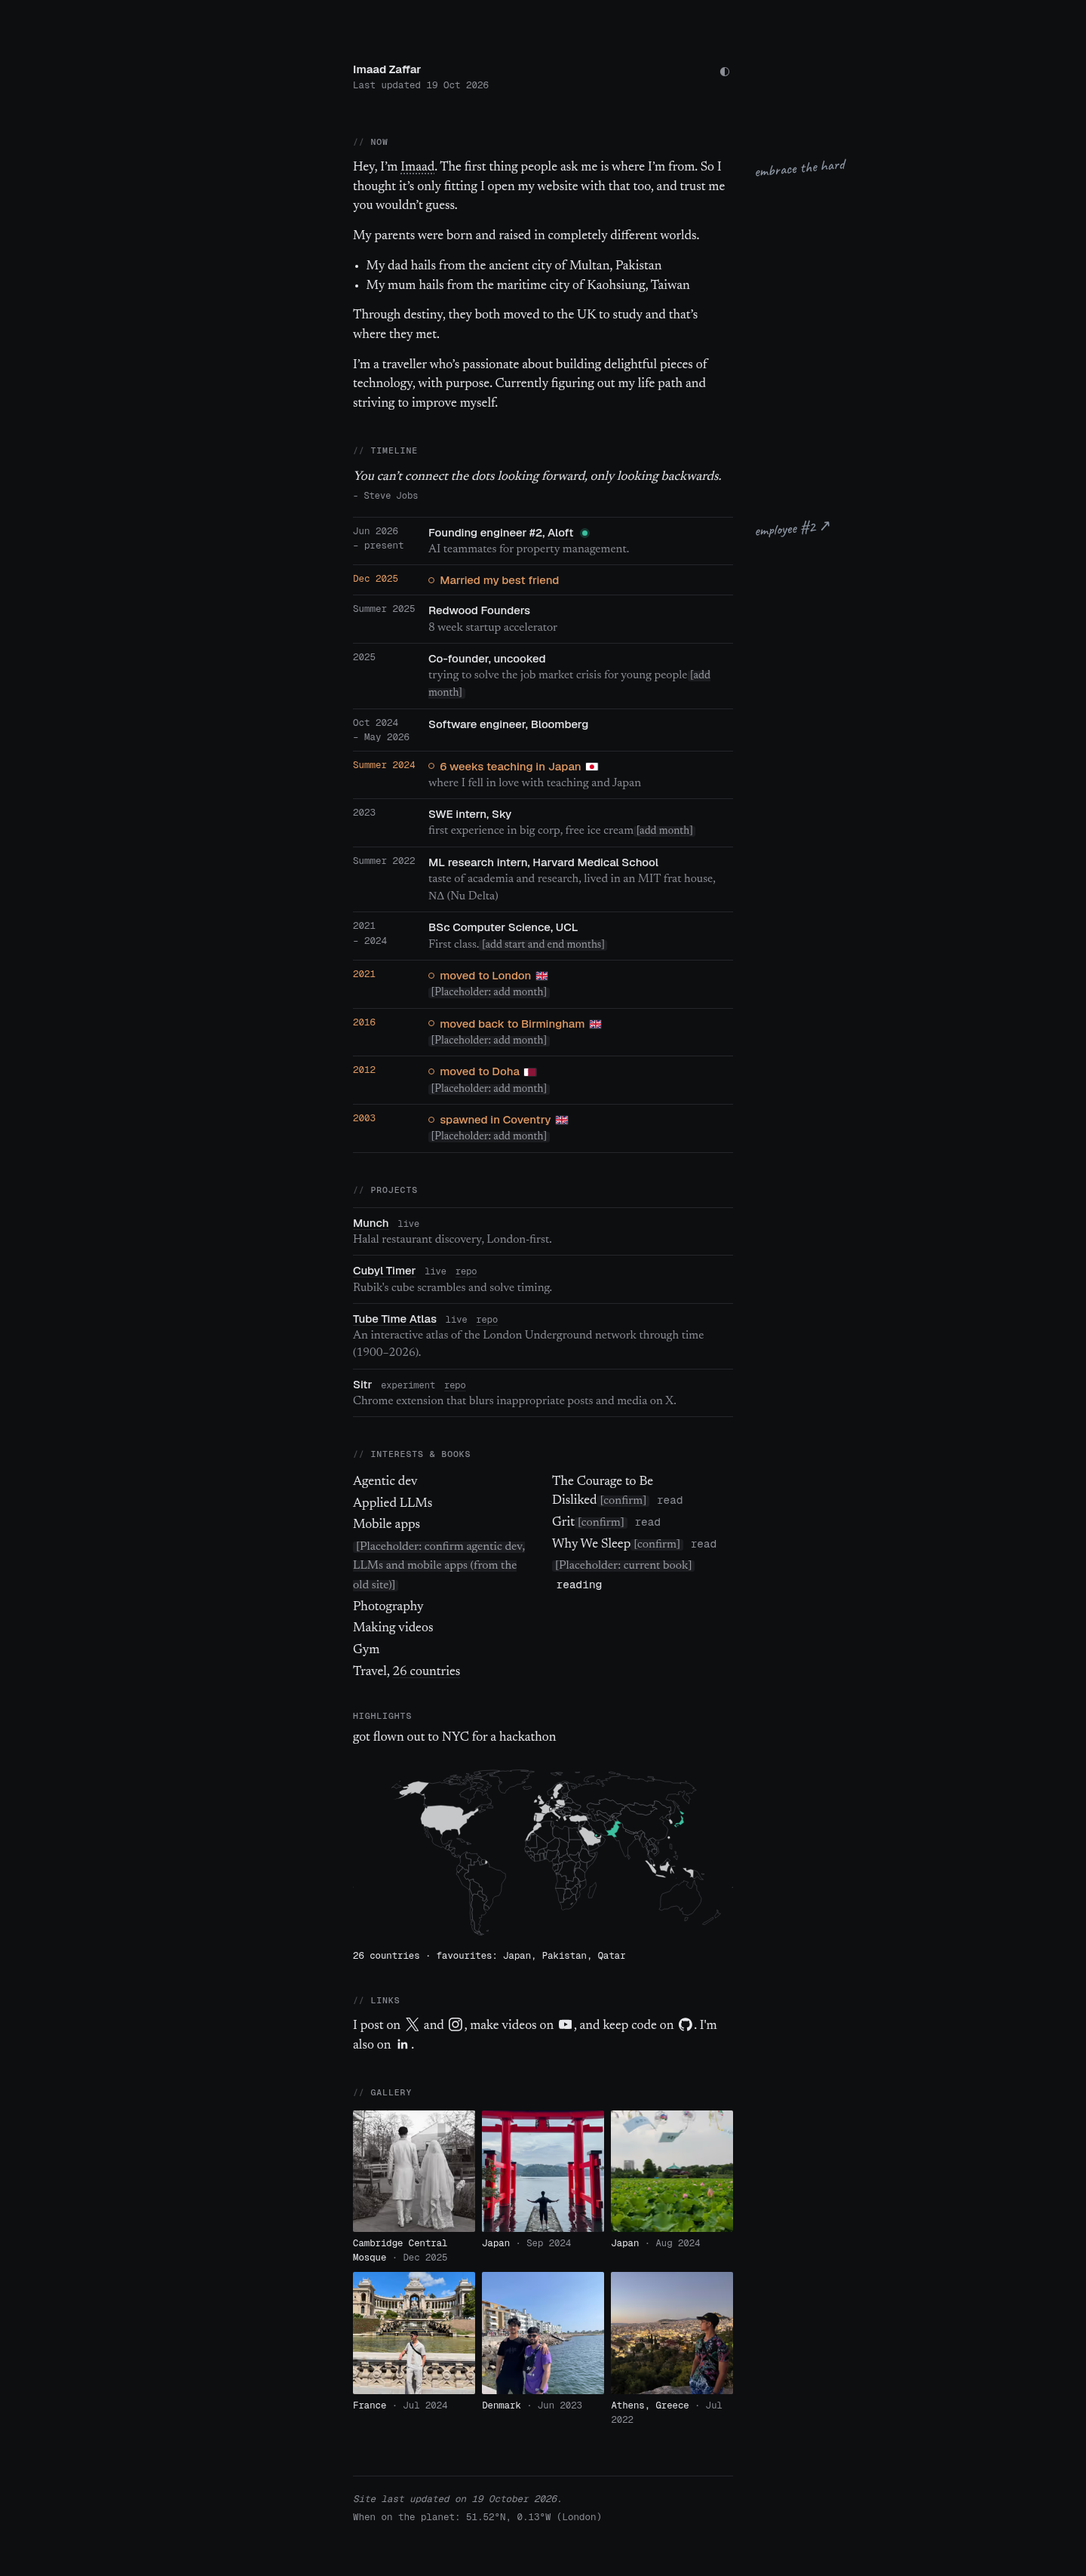
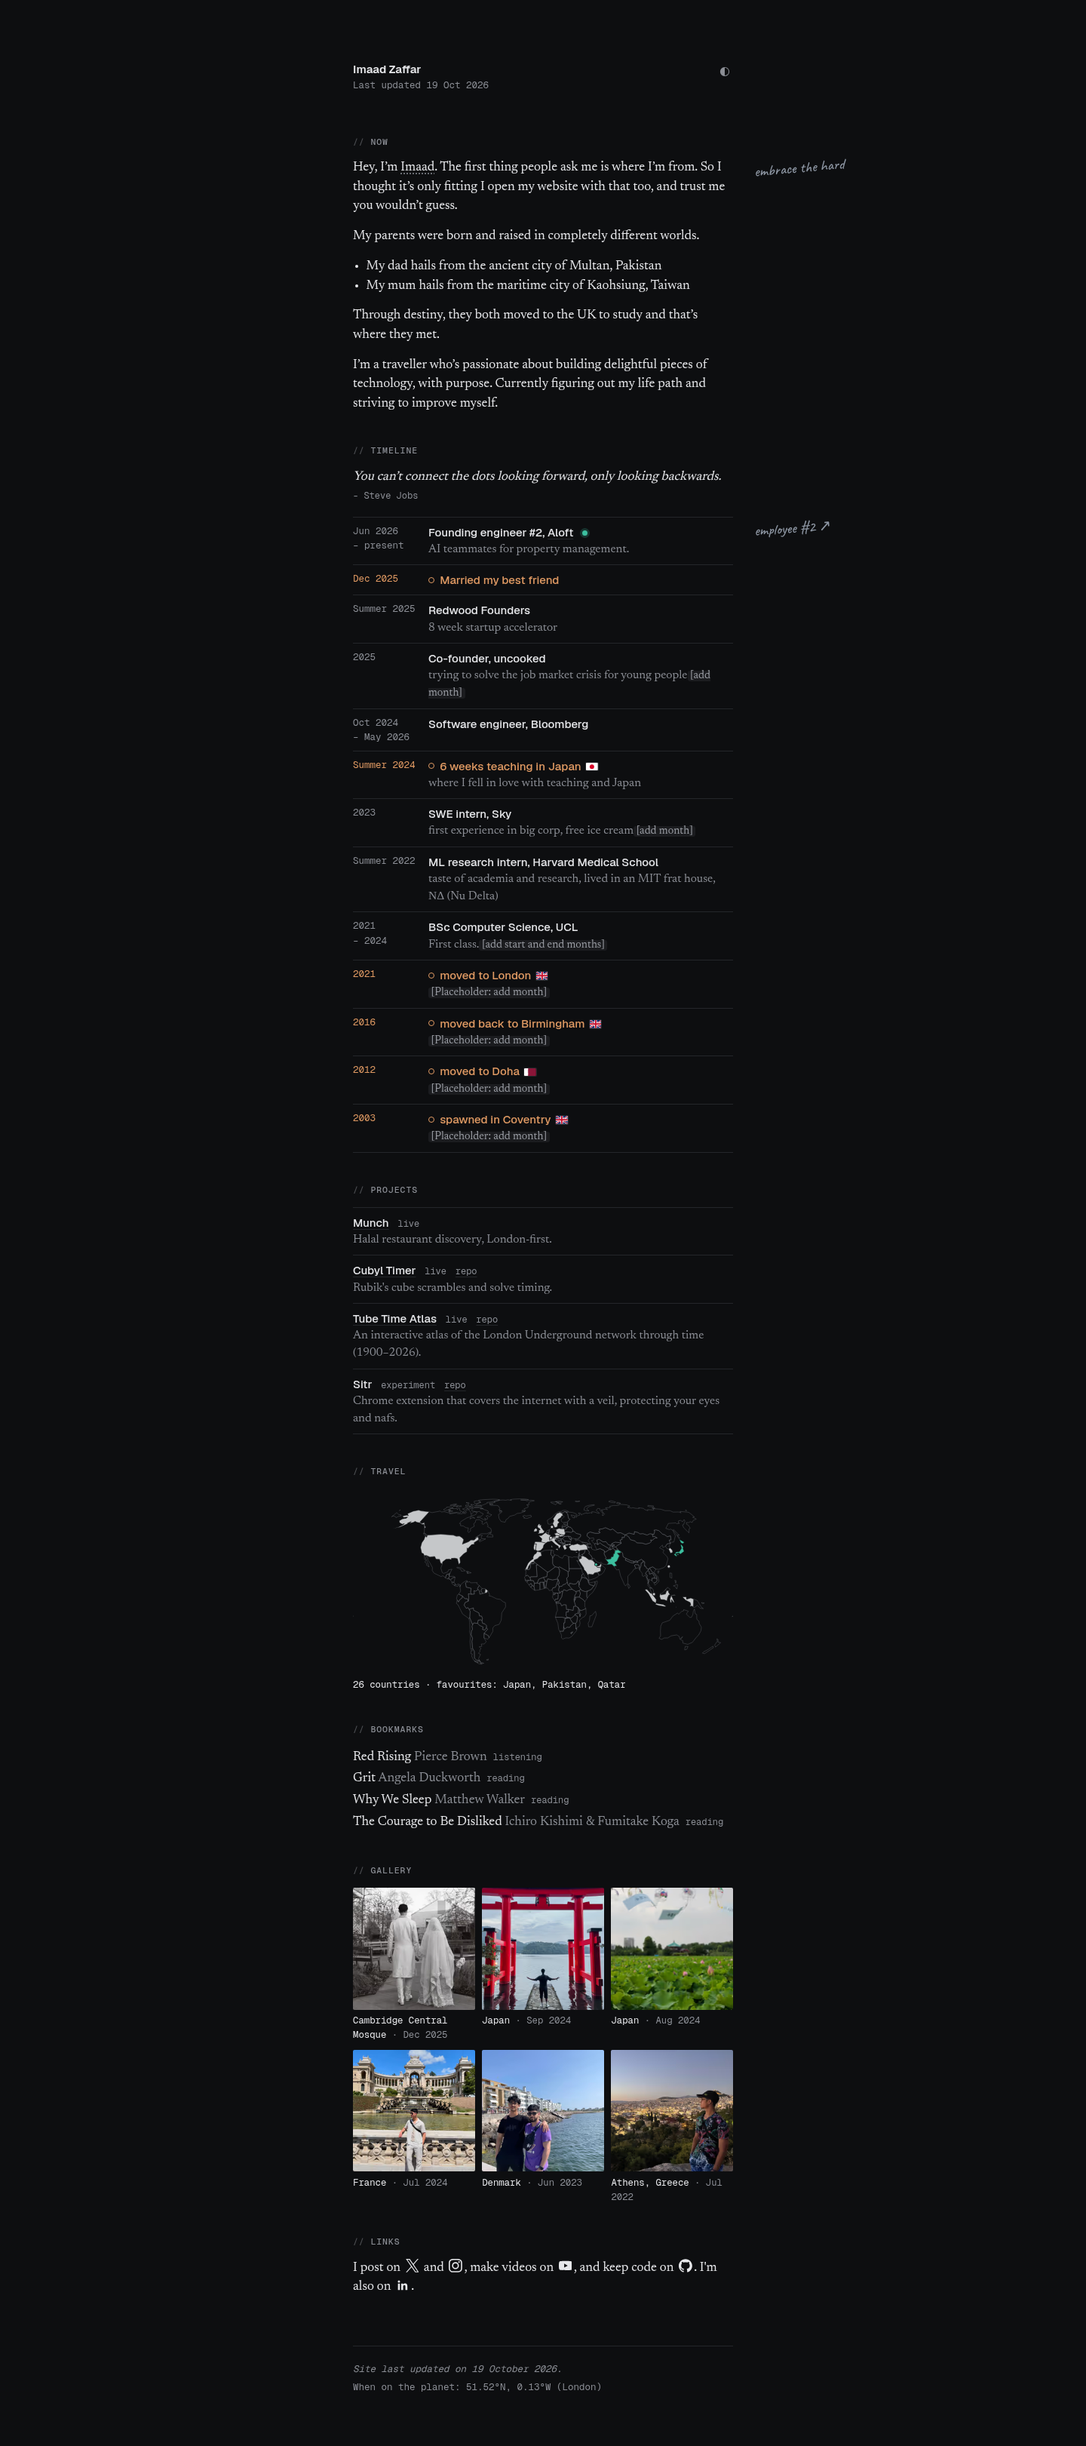
Bookmarks (books) and Travel sections replace Interests; Links last
- Interests, Highlights and their placeholders are removed.
  interests.json becomes books.json: title, author and status
  (listening, reading or read), shown as a small mono tag. Red Rising
  first, then Grit, Why We Sleep and The Courage to Be Disliked.
- The books list is headed Bookmarks; Travel is its own section with
  the world map and its caption.
- Order: Now, Timeline, Projects, Travel, Bookmarks, Gallery, Links.
- Unused .cols, h3 and book em styles removed.

diff --git a/src/styles/global.css b/src/styles/global.css
@@ -57,7 +57,6 @@ h2 {
   margin: 0 0 0.9rem; color: var(--muted); font-weight: 500;
   font-family: var(--mono); font-size: 11.5px; text-transform: uppercase; letter-spacing: 0.08em;
 }
-h3 { margin: 1.25rem 0 0.4rem; color: var(--muted); font-weight: 500; font-family: var(--mono); font-size: 11.5px; text-transform: uppercase; letter-spacing: 0.08em; }
 h2::before { content: '// '; opacity: 0.5; }
 p { margin: 0 0 0.9rem; }
 .prose, .prose p, .list, .note { font-family: var(--serif); font-size: 17px; line-height: 1.5; }
@@ -69,7 +68,7 @@ a {
 a:hover { color: var(--accent); text-decoration-color: var(--accent); }
 mark.ph { background: var(--mark); color: var(--mark-ink); padding: 0 0.25em; border-radius: 3px; font-size: 0.92em; }
 
-.updated, .yr, .books em, figcaption, footer { font-family: var(--mono); font-size: 12.5px; }
+.updated, .yr, figcaption, footer { font-family: var(--mono); font-size: 12.5px; }
 
 .ledger { list-style: none; margin: 0; padding: 0; }
 .ledger li { position: relative; display: grid; grid-template-columns: 5.5rem 1fr; gap: 0.75rem; padding: 0.5rem 0; border-top: 1px solid var(--line); }
@@ -106,11 +105,9 @@ a:focus-visible, .term:focus-visible { outline: 1px solid var(--accent); outline
   box-shadow: 0 0 0 3px color-mix(in srgb, var(--accent) 22%, transparent);
 }
 
-.cols { display: grid; grid-template-columns: 1fr 1fr; gap: 1.5rem; }
 .list { margin: 0 0 0.9rem; padding: 0; list-style: none; }
 .list li { padding: 0.1rem 0; }
-.books em { font-style: normal; color: var(--muted); font-size: 0.85em; margin-left: 0.35rem; }
-.books em.reading { color: var(--ink); }
+.books .author { color: var(--muted); }
 
 #now { position: relative; }
 .map { margin: 0.75rem 0 0; }
@@ -146,7 +143,6 @@ section, footer { animation: rise 0.6s cubic-bezier(0.2, 0.7, 0.2, 1) both; anim
   .hn { position: static; display: inline-block; margin-top: 0.2rem; transform: rotate(-1.5deg); white-space: normal; }
 }
 @media (max-width: 420px) {
-  .cols { grid-template-columns: 1fr; gap: 0; }
   .grid { gap: 0.4rem; }
 }
 

diff --git a/src/content.config.ts b/src/content.config.ts
@@ -39,18 +39,9 @@ const timeline = defineCollection({
   ]),
 })
 
-const interests = defineCollection({
-  loader: file('./src/content/interests.json'),
-  schema: z.discriminatedUnion('kind', [
-    z.object({ kind: z.literal('interest'), label: z.string().nullable(), todo }),
-    z.object({ kind: z.literal('highlight'), text: z.string() }),
-    z.object({
-      kind: z.literal('book'),
-      title: z.string().nullable(),
-      status: z.enum(['reading', 'read']),
-      todo,
-    }),
-  ]),
+const books = defineCollection({
+  loader: file('./src/content/books.json'),
+  schema: z.object({ title: z.string(), author: z.string(), status: z.enum(['listening', 'reading', 'read']) }),
 })
 
 const projects = defineCollection({
@@ -98,4 +89,4 @@ const gallery = defineCollection({
     }),
 })
 
-export const collections = { now, timeline, projects, interests, travel, links, gallery }
+export const collections = { now, timeline, projects, books, travel, links, gallery }

diff --git a/README.md b/README.md
@@ -23,7 +23,7 @@ All copy lives in `src/content/`. The schemas in `src/content.config.ts` validat
 | `now.md` | The Now section (markdown; the name popover is inline HTML using the native `popover` attribute). `updated` drives "Last updated" and the footer date. `aside` is the handwritten note beside it. |
 | `timeline.json` | Rows in display order, newest first. Every row has `start` and optional `end`, written as `YYYY`, `YYYY-MM` or `YYYY-summer` (`end` can also be `"present"`); they show as "Jun 2026 – present" in the left column. `start: null` with a `todo` shows a placeholder. `kind: "work"` rows have `role`, `org`, optional `url`, `note`, `current` (adds the dot) and `aside` (the handwritten margin note). `kind: "life"` rows have `text`, optional `place`, `country` (ISO alpha-2, shown as a flag) and `note`. |
 | `projects.json` | One row per project: `name`, `blurb`, optional `url` and `repo`, and `status` (`live`, `archived`, `wip` or `experiment`). The name links to `url`, and a `repo` adds a small `repo` tag. |
-| `interests.json` | Entries with `kind` set to `interest`, `highlight` (`text`) or `book` (`status`: `reading` or `read`). |
+| `books.json` | The Bookmarks section, in display order: `title`, `author` and `status` (`listening`, `reading` or `read`). |
 | `travel.json` | Visited countries: `{ "id": "JP", "favourite": true }`, with optional `year` and `note`. `id` must be an ISO 3166-1 alpha-2 code. The world map, its favourites (in teal) and the Travel count come from this file. Countries too small to see get a dot. |
 | `links.json` | The links used in the Links sentence. `id` is one of `x`, `instagram`, `youtube`, `github`, `linkedin`. |
 | `gallery/*.json` | One file per photo: `image` (a path next to the JSON file), `caption`, `date` (`YYYY-MM`), `alt`, `url` (the Instagram post), optional `position` (CSS `object-position` for the square crop). Files sort by name, so `01` shows first. |
